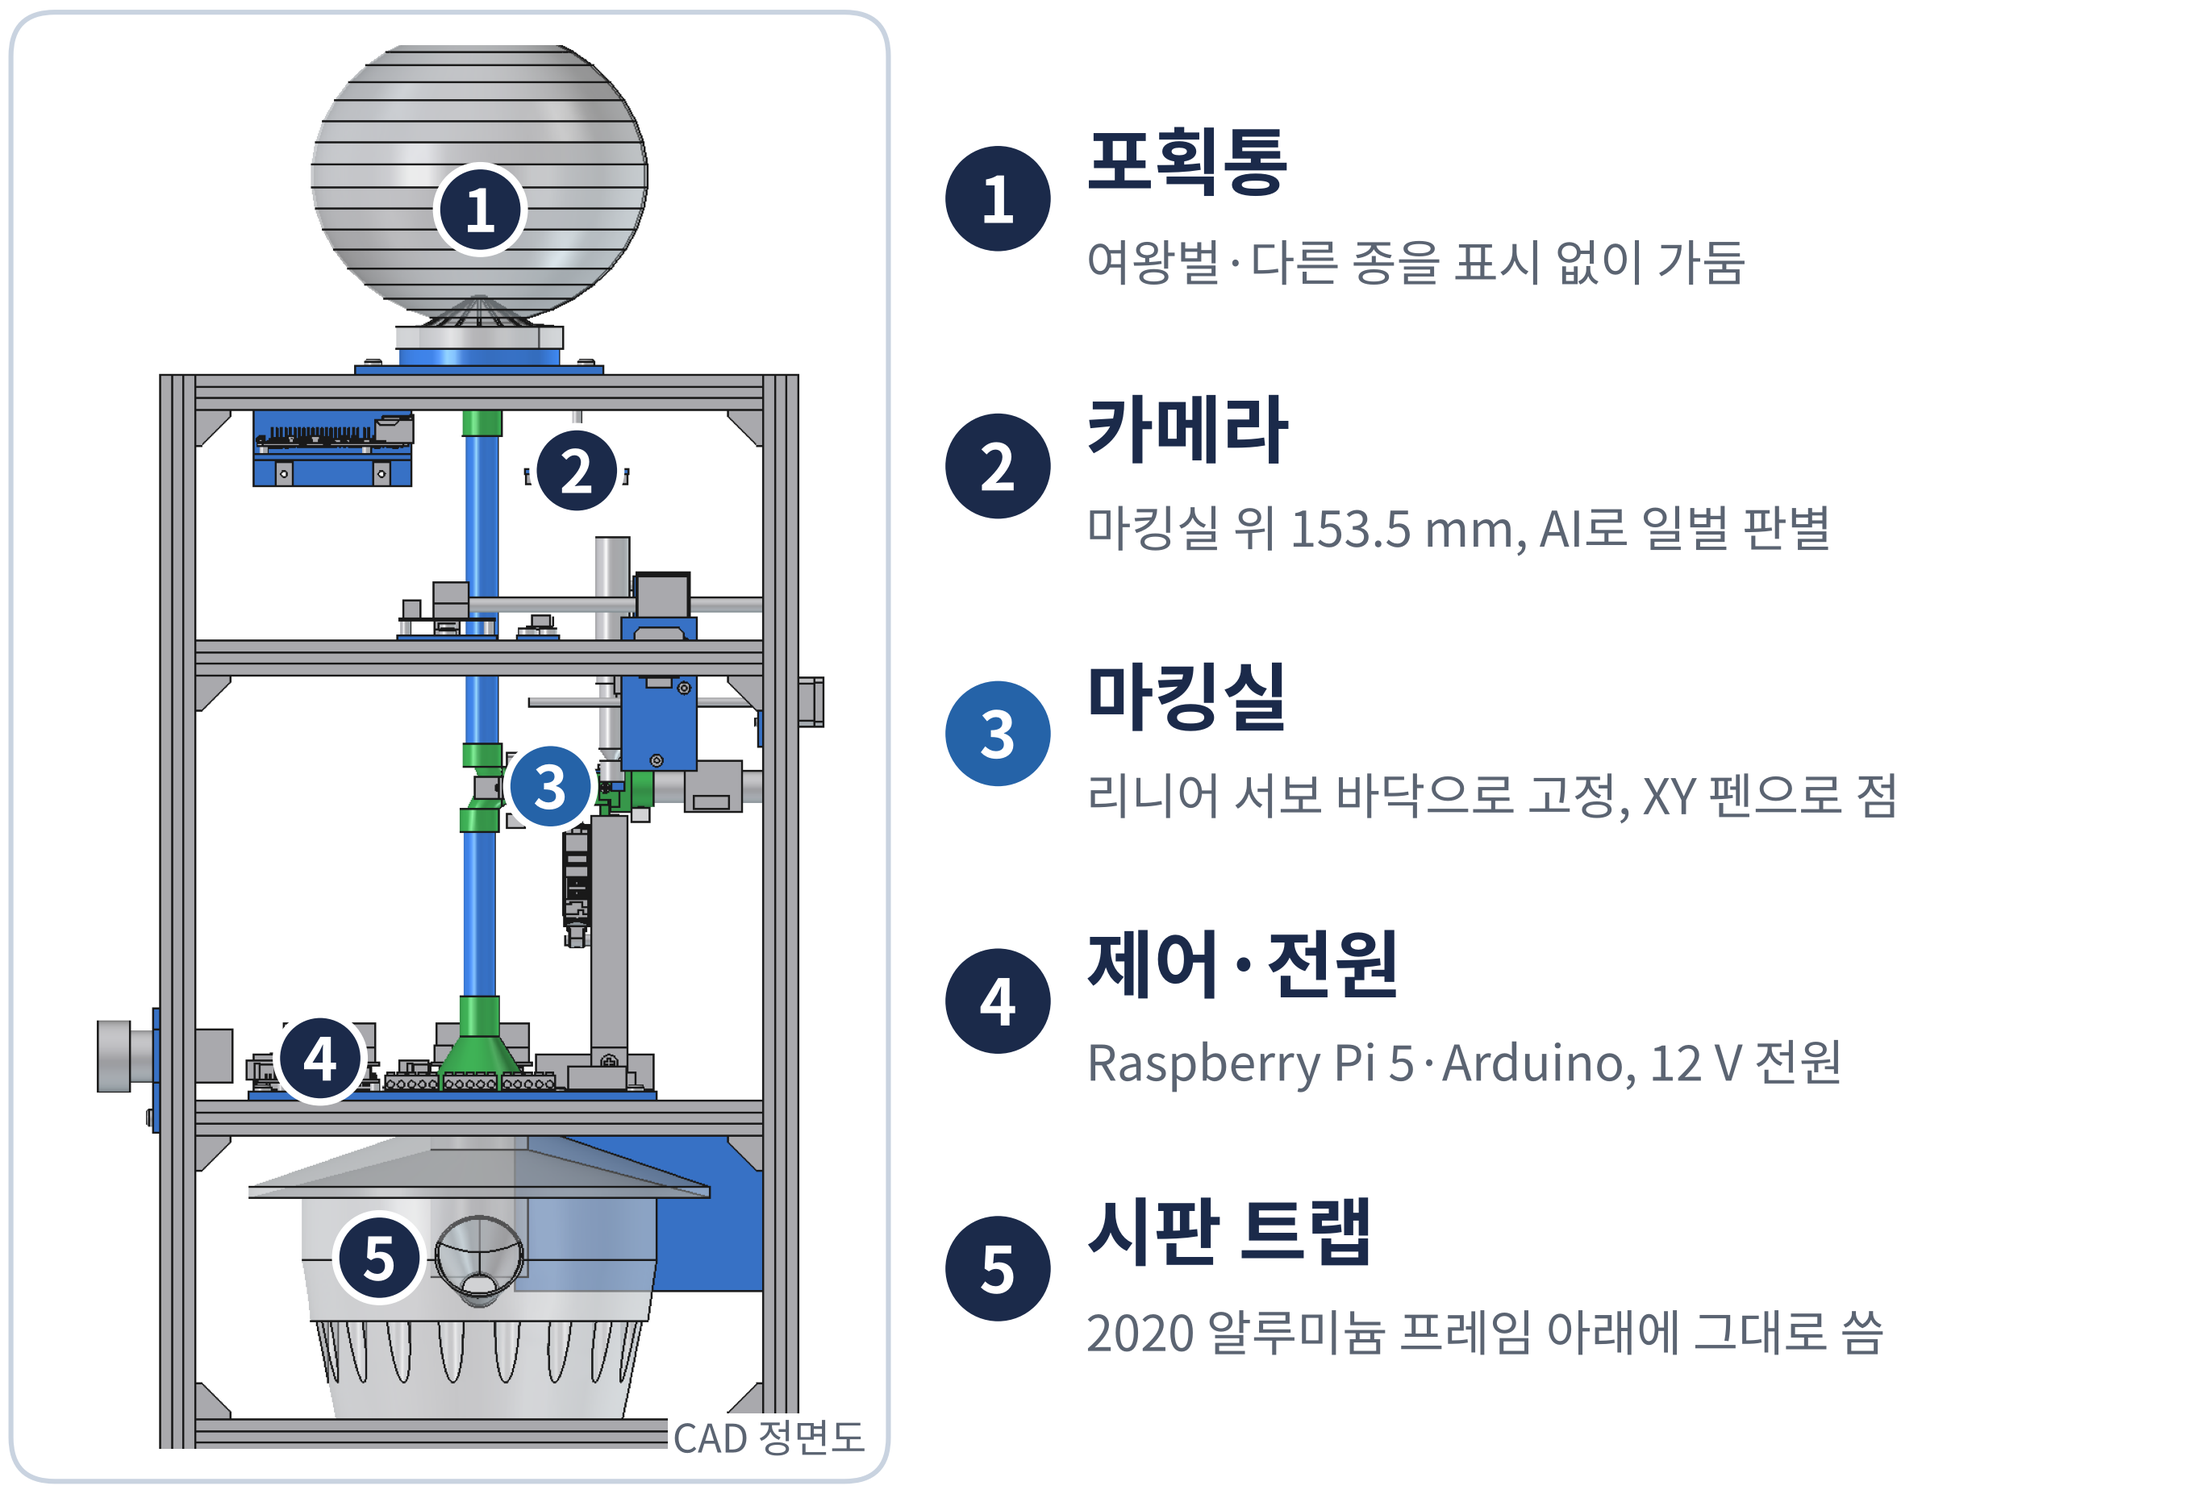
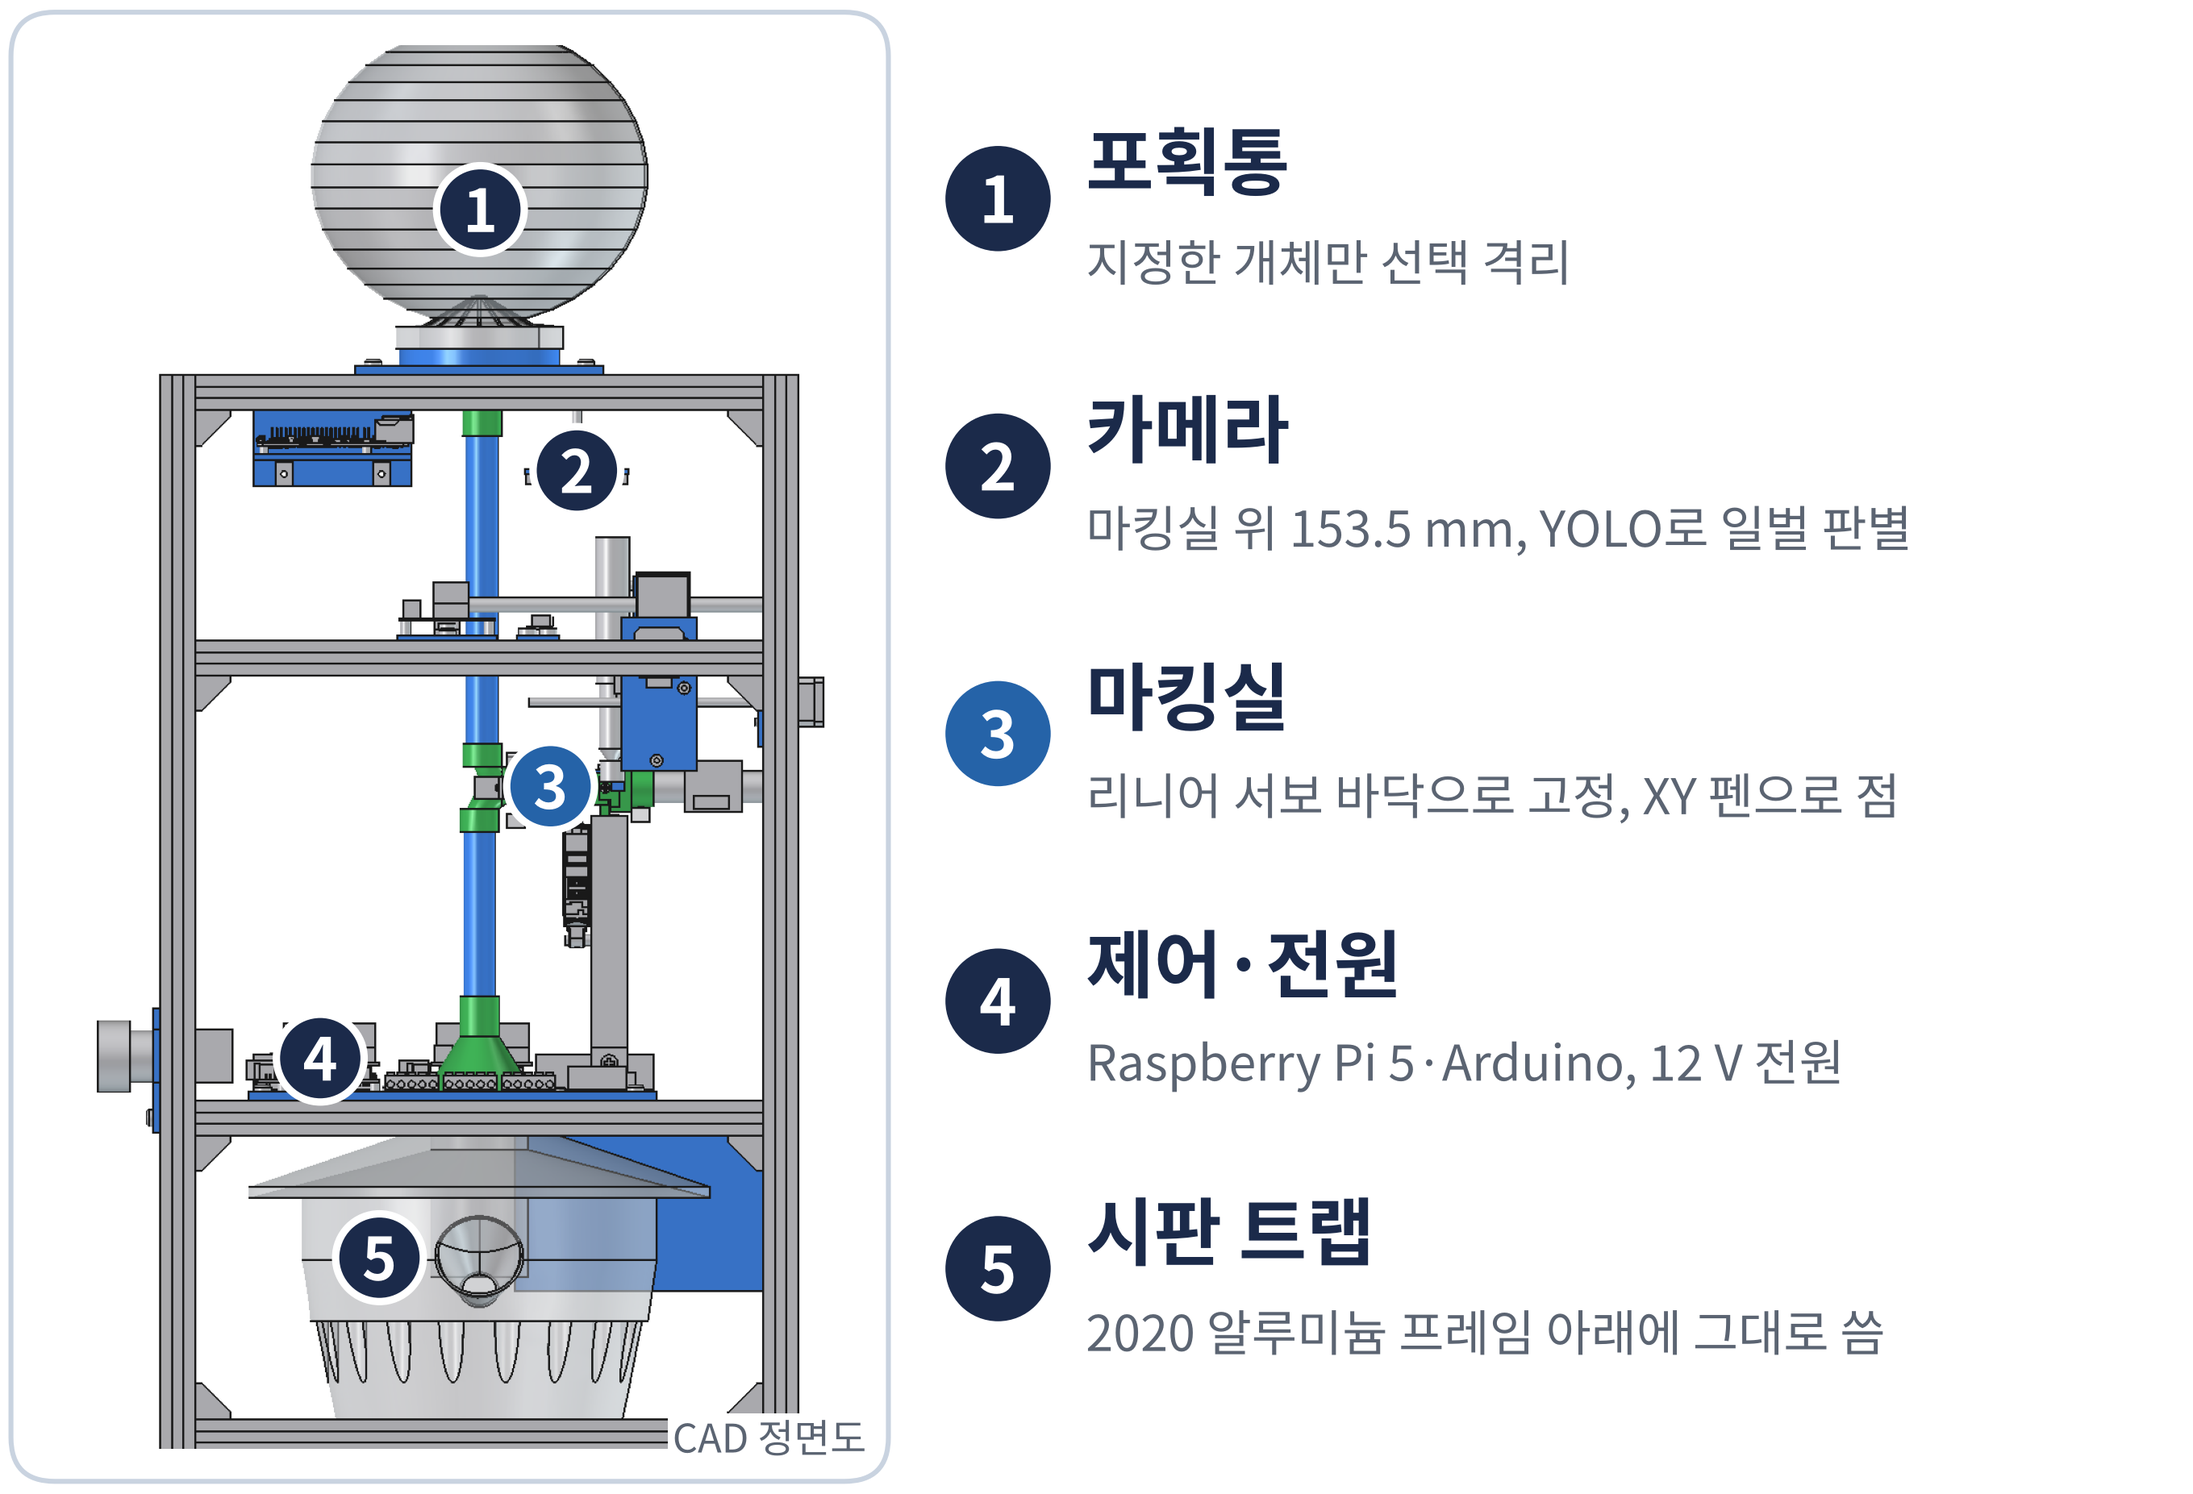
[서현] 앵커 포스터 업데: 새 제목 (YOLO 판별 기반 …), 선택 격리·마킹 색·시제품 한 색·결과 칸 방식 설명, 빈 공간 채움 (CAP-AI-62)
Claude-Session: https://claude.ai/code/session_01RWCzqVuPhrynBXeDi6fBqB

Changed region(s): [[0.4943, 0.1538, 0.8032, 0.1846], [0.6797, 0.3384, 0.865, 0.3691]]

diff --git a/design/poster/content.py b/design/poster/content.py
@@ -1,13 +1,13 @@
 OUT='말벌트랩_포스터_앵커_초안.pptx'
-TITLE='등검은말벌 둥지 추적 마킹 트랩'
+TITLE=['YOLO 판별 기반 등검은말벌','자동 마킹·둥지 거리 추정 트랩']
 TEAM=[('팀      명 ','초벌'),('소      속 ','국립공주대학교 그린바이오 컨소시엄'),('지도교수 ','기계자동차공학부 김성관 교수'),('팀      장 ','기계자동차공학부 기계공학전공 이서현(4학년)'),('팀      원 ','기계자동차공학부 기계공학전공 이승준(3학년)')]
 BODY={
-'직사각형 20':['등검은말벌이 꿀벌을 잡아먹어 양봉 피해 확산','당액 트랩은 효율이 낮아 근본 대책은 둥지 제거','둥지 탐색용 말벌 표시를 사람이 직접 해 위험'],
-'직사각형 21':['말벌 포획부터 표시·내보냄까지 사람 손 없이 자동화','카메라 AI로 등검은말벌 일벌만 골라 표시','여왕벌·다른 종은 표시 없이 격리','다시 잡힌 시각을 기록해 둥지 거리 추정에 활용','시판 트랩에 얹는 모듈로 지자체·방제 기관 보급'],
-'직사각형 35':['영국 VespAI: 카메라 AI로 판별만, 표시는 못 함','여왕벌 마킹 통: 망에 눌러 고정 후 손으로 표시','두 방식을 결합해 판별·고정·표시를 기계가 수행','전문가 자문 후 형광 가루 대신 수성 마커 채택'],
-'직사각형 37':['입구 문과 빛 센서로 한 마리씩 들여보냄','승강 바닥이 말벌을 투명 격자판에 눌러 고정','XY 이송 장치가 펜을 옮겨 격자 구멍으로 점 표시','펜은 약 0.3 N으로 가볍게, 마지막 2 mm는 천천히'],
-'직사각형 42':['역학계산 10문제로 찍는 힘·문 끼임·펜 충격 검토','3D 전체 조립 모델로 움직임·간섭 검사 수행','회로 설계, 제어 프로그램 모의 시험 274개 통과','AI 재학습으로 격자 너머 말벌 917/917 장면 검출','부품 59종 구매, 금속판 10장·아크릴 판 9종 주문'],
-'직사각형 43':['위험한 말벌 표시 작업을 기계가 대신해 쏘임 위험 감소','기록된 왕복 시간으로 둥지까지 거리 범위 추정'],
-'직사각형 44':['실물 조립 후 표본 말벌로 판별·고정·표시 동작 시험','야외 귀소 시험은 방생 허가 필요 → 후속 연구로 제안','표본 시험 결과로 B2G 보급·특허 출원 검토'],
+'직사각형 20':['등검은말벌이 꿀벌을 잡아먹어 양봉 피해 확산','시판 유인 트랩은 일벌만 잡아 근본 대책은 둥지 제거','둥지 탐색용 말벌 표시를 사람이 직접 해 쏘임 위험'],
+'직사각형 21':['말벌 포획부터 표시·내보냄까지 사람 손 없이 자동화','YOLO 모델로 등검은말벌 일벌만 골라 표시','지정한 개체만 선택 격리 (현재 여왕벌·다른 종)','마킹 색으로 잡힌 시각을 대략 파악, 말벌집 거리 추정','시판 트랩에 얹는 모듈로 지자체·방제 기관 보급'],
+'직사각형 35':['영국 VespAI: YOLO로 판별만, 표시는 못 함','여왕벌 마킹 통: 망에 눌러 고정 후 손으로 표시','두 방식을 결합해 판별·고정·표시를 기계가 수행','전문가 자문 후 형광 가루 대신 수성 마커 채택'],
+'직사각형 37':['입구 문과 빛 센서로 한 마리씩 들여보냄','승강 바닥이 말벌을 투명 격자판에 눌러 고정','XY 이송 장치가 펜을 옮겨 격자 구멍으로 점 표시','펜은 약 0.3 N으로 가볍게, 마지막 2 mm는 천천히','시제품은 마커 한 색 (사람이 1시간마다 색 교체)'],
+'직사각형 42':['역학 계산을 통해 찍는 힘·문 끼임·펜 충격 검토','FreeCAD 조립 모델로 펜·바닥 움직이며 겹침 검사','PC 가상 센서·모터로 제어 프로그램 시험 274개 통과','학습 안 쓴 표본 917장면 YOLO 검출 (신뢰도 ≥ 50 %)'],
+'직사각형 43':['말벌 표시 작업을 기계가 대신해 쏘임 위험 감소','마킹 색과 재포획 시각으로 둥지까지 거리 범위 추정','사람 없이 낮 동안 자동 운용해 조사 인력 절감'],
+'직사각형 44':['실물 조립 후 표본 말벌로 판별·고정·표시 동작 시험','여러 색 마커로 색 교체까지 완전 자동화 목표','야외 귀소 시험은 방생 허가 필요 → 후속 연구로 제안','표본 시험 결과로 B2G 보급·특허 출원 검토'],
 }
 PICS={'직사각형 12':'fig_rep.png','직사각형 45':'fig_goal_ai.png','직사각형 46':'fig_idea.png','직사각형 48':'fig_struct.png','직사각형 47':'fig_use.png'}

diff --git a/design/poster/mkposter.py b/design/poster/mkposter.py
@@ -29,7 +29,7 @@ def set_body(name,lines):
 def set_title(name,text):
     global x
     m=sp_of(name); sp=m.group(); ps=paras(sp)
-    new=mkpara(ps[0],text)
+    new=''.join(mkpara(ps[0],t) for t in (text if isinstance(text,list) else [text]))
     body=re.search(r'(<p:txBody>.*?<a:lstStyle/>)(.*)(</p:txBody>)',sp,re.S)
     x=x[:m.start()]+sp[:body.start(2)]+new+sp[body.end(2):]+x[m.end():]
 def set_team(name,rows):
@@ -70,20 +70,26 @@ def fix_head(name, x_cm):
 for n in ['직사각형 22','직사각형 23']: fix_head(n, 8.2)        # marL 없음
 for n in ['직사각형 27','직사각형 41']: fix_head(n, 7.1)        # marL 1.1 cm → 글 시작 8.2
 for n in C.BODY: fix_head(n, 7.1)
+# 제목 두 줄 (11/23 21:38 서현 새 제목) → 팀 정보와 붙지 않게 제목 상자를 2 cm 올림
+mt=sp_of('직사각형 18'); st=re.sub(r'(<a:off x="\d+") y="\d+"',lambda r:f'{r.group(1)} y="{int(5.1*360000)}"',mt.group(),1); x=x[:mt.start()]+st+x[mt.end():]
+def em(t):   # 글 폭 어림 (한글 1, 영문·숫자 0.58, 빈칸 0.3, 가운뎃점 0.45) — shortcut: 실제 맑은 고딕 폭 아님, 꺾임이 어긋나면 렌더로 확인
+    return sum(1.0 if ord(ch)>0x2E80 else 0.3 if ch==' ' else 0.45 if ch in '·,.' else 0.58 for ch in t)
+EM_MAX=25.0; H=[]
 # 세로 배치: 양식 위치 대신 실제 줄 수로 위에서부터 같은 간격으로 쌓음 (줄 간격 고정 pt → PowerPoint·LibreOffice 같음)
 ORDER=[('h','직사각형 22'),('b','직사각형 20'),('b','직사각형 21'),('h','직사각형 23'),('b','직사각형 35'),('b','직사각형 37'),
        ('h','직사각형 27'),('b','직사각형 42'),('h','직사각형 41'),('b','직사각형 43'),('b','직사각형 44')]
-LN={'h':76,'b':58}; GAP={'h':0.2,'b':1.3}; SEC=2.8; y=33.8; prev=None   # pt, cm
+LN={'h':76,'b':58}; GAP={'h':0.2,'b':1.2}; SEC=2.4; y=33.8; prev=None   # pt, cm
 for kind,name in ORDER:
     m=sp_of(name); sp=m.group()
     sp=re.sub(r'<a:lnSpc>.*?</a:lnSpc>',f'<a:lnSpc><a:spcPts val="{LN[kind]*100}"/></a:lnSpc>',sp,flags=re.S)
     sp=re.sub(r'<a:spcBef>.*?</a:spcBef>','<a:spcBef><a:spcPts val="0"/></a:spcBef>',sp,flags=re.S)
     sp=re.sub(r'<a:spcAft>.*?</a:spcAft>','<a:spcAft><a:spcPts val="0"/></a:spcAft>',sp,flags=re.S)
-    n=len(re.findall(r'<a:p>',sp)); h=0.254+n*LN[kind]*2.54/72
+    n=sum(max(1,-(-em(t)//EM_MAX)) for t in [''.join(re.findall(r'<a:t>([^<]*)</a:t>',p)) for p in re.findall(r'<a:p>.*?</a:p>',sp,flags=re.S)]) if kind=='b' else len(re.findall(r'<a:p>',sp))
+    h=0.254+n*LN[kind]*2.54/72; H.append(h)
     if prev: y+=SEC if kind=='h' else GAP[prev]
     sp=re.sub(r'(<a:off x="\d+") y="\d+"/><a:ext cx="(\d+)" cy="\d+"',lambda r:f'{r.group(1)} y="{int(y*360000)}"/><a:ext cx="{r.group(2)}" cy="{int(h*360000)}"',sp,1)
     x=x[:m.start()]+sp+x[m.end():]; y+=h; prev=kind
-print('본문 끝 y =',round(y,1),'cm (로고 131.5 위여야 함)'); assert y<130.5
+print('본문 끝 y =',round(y,1),'cm (로고 131.5 위여야 함)'); assert y<131.0
 for i,(k,v) in enumerate(C.PICS.items()): add_pic(k,v,f'rId{50+i}')
 x=re.sub(r'<a:rPr(?![^>]*noProof)',r'<a:rPr noProof="1"',x)
 open(S,'w',encoding='utf-8').write(x); open(RL,'w',encoding='utf-8').write(rels)

diff --git a/design/poster/figs2.py b/design/poster/figs2.py
@@ -195,8 +195,8 @@ card(a, 0.5, 0.5, 40, 67, fc='white', ec=LINE, r=2.0)
 fr = Image.open('/home/claude/repo/cad/img/D5g_도2_정면.png').convert('RGB').crop((835, 240, 1565, 1640))
 put(a, fr, 2, 2, 38, 64)   # → 그림 x 4.3~37.7, y 2~66
 a.text(39.5, 1.6, 'CAD 정면도', ha='right', va='bottom', fontsize=16, color=GRAY, zorder=7, bbox=dict(fc='white', ec='none', pad=2))
-pts = [((21.9, 58.5), '포획통', '여왕벌·다른 종을 표시 없이 가둠'),
-       ((26.3, 46.6), '카메라', '마킹실 위 153.5 mm, AI로 일벌 판별'),
+pts = [((21.9, 58.5), '포획통', '지정한 개체만 선택 격리'),
+       ((26.3, 46.6), '카메라', '마킹실 위 153.5 mm, YOLO로 일벌 판별'),
        ((25.1, 32.2), '마킹실', '리니어 서보 바닥으로 고정, XY 펜으로 점'),
        ((14.6, 19.8), '제어·전원', 'Raspberry Pi 5·Arduino, 12 V 전원'),
        ((17.3, 10.7), '시판 트랩', '2020 알루미늄 프레임 아래에 그대로 씀')]
@@ -265,8 +265,8 @@ f.savefig('fig_ai.png'); plt.close(f)
 # ══ 그림 (오른쪽 4번) B2G 활용 — 자세히 (11/23 밤 서현 "현재 것에서 자세하게"). 근거: 당위성 워드 (Rojas-Nossa 2022 공식, 11-3 색 교체, 조사·방제 모드)
 f, a = canvas()
 a.text(1, 64.5, '활용 — 지자체·방제 기관용 둥지 조사 장비 (B2G)', fontsize=26, color=NAVY, weight='bold', va='center')
-flow = [('트랩 설치', '양봉장 주변 여러 곳\n시판 트랩 위에 장착'), ('자동 표시', '일벌만 점 찍고 내보냄\n1시간마다 마커 색 교체'),
-        ('시각 수집', '다시 잡히면 시각 기록\n→ 왕복 시간 계산'), ('둥지 제거', '거리 범위 안 수색\n허가 기관이 제거')]
+flow = [('트랩 설치', '양봉장 주변 여러 곳\n시판 트랩 위에 장착'), ('자동 표시', '일벌만 점 찍고 내보냄\n시제품: 1시간마다 색 교체'),
+        ('시각 수집', '점 색·재포획 시각으로\n왕복 시간 계산'), ('둥지 제거', '거리 범위 안 수색\n허가 기관이 제거')]
 for i, (t, sub) in enumerate(flow):
     x = 1 + i * 25; hl = i == 3
     card(a, x, 33, 22.5, 26, fc=NAVY if hl else LIGHT, ec='none', r=1.6)
@@ -310,7 +310,7 @@ f.savefig('fig_ai.png'); plt.close(f)
 # ══ 오른쪽 그림 1 (11/23 21:27 서현 "대표사진과 fig1 합치기"): 작동 5단계 + ② 판별 사진 2장
 U = '/mnt/user-data/uploads/capstone design/'
 f, a = canvas()
-steps = [('들어옴', '빛 센서·입구 문'), ('판별', '카메라 AI'), ('고정', '바닥 올림'), ('표시', 'XY 펜으로 점'), ('내보냄', '방생 문·시각 기록')]
+steps = [('들어옴', '빛 센서·입구 문'), ('판별', 'YOLO 모델'), ('고정', '바닥 올림'), ('표시', 'XY 펜으로 점'), ('내보냄', '방생 문·시각 기록')]
 cx = [10, 30, 50, 70, 90]
 for i, (t, sub) in enumerate(steps):
     c = AMBER if i == 1 else (BLUE if i in (2, 3) else NAVY)

diff --git a/ai-log/AI_명령사항_로그.md b/ai-log/AI_명령사항_로그.md
@@ -1509,3 +1509,10 @@
 - (11/23 21:35) 서현 "지금은 시제품이라 한 색, 여러 색을 쓰게 해 완전 자동화가 목표라고 말하자" → 대기 목록 5번
 - (11/23 21:36) 서현 "'역학계산 10문제' 언급 말고 '역학 계산을 통해', 검사·시험·장면 검출을 어떻게 했는지 적고, 부품 주문 문장 빼" → 대기 목록 6번 (방식 근거: run_full.py · sim · pi_link · 말벌AI_시험.ipynb)
 - (11/23 21:38) 서현 "제목도 무엇으로 어떻게 어떤 결과인지 알려 주는 제목, 서술형 말고" → 'YOLO 판별 기반 등검은말벌 자동 마킹·둥지 거리 추정 트랩' 선택 → 대기 목록 7번 (신청서 작품명도)
+- **(11/23 21:38~21:46) 서현 "업데하자, 포스터 꽉꽉 채우고":** 대기 목록 1~7을 앵커 포스터에 한 번에 반영
+  - 제목 두 줄 "YOLO 판별 기반 등검은말벌 / 자동 마킹·둥지 거리 추정 트랩" (제목 상자 2 cm 올림, 팀 정보와 안 붙음)
+  - 본문: 시판 유인 트랩 · YOLO 모델 · 지정한 개체만 선택 격리 (현재 여왕벌·다른 종) · 마킹 색으로 잡힌 시각 대략 파악 · 설계 '시제품은 마커 한 색 (사람이 1시간마다 색 교체)' · 결과 칸 방식 (역학 계산을 통해 / FreeCAD 조립 모델로 펜·바닥 움직이며 겹침 검사 / PC 가상 센서·모터로 제어 프로그램 시험 274개 / 학습 안 쓴 표본 917장면 YOLO 검출 신뢰도 ≥ 50 %), 부품 주문 줄 뺌 · 기대효과 '사람 없이 낮 동안 자동 운용해 조사 인력 절감' (판넬 4.2 근거) · 향후 '여러 색 마커로 색 교체까지 완전 자동화 목표'
+  - 그림: 그림 1 판별 'YOLO 모델', 그림 3 포획통 '지정한 개체만 선택 격리'·카메라 'YOLO로 일벌 판별', 그림 4 ② '시제품: 1시간마다 색 교체'·③ '점 색·재포획 시각으로 왕복 시간 계산'
+  - 배치: 한 줄 폭 어림 (em, 25자) 넘는 줄은 꺾인 줄로 셈 → 넘는 6줄은 줄여 한 줄로. 빈 공간 채움: 칸 사이 2.4 · 글 사이 1.2 cm, 본문 끝 130.5 cm (로고 131.5)
+  - 바탕화면 포스터 덮음, md5 같음 확인 (fc26dc88)
+  - 참가신청서 작품명 K15 (바탕화면 두 파일 모두, 공유 문자열만 바꿈 — 다른 칸 그대로): 새 제목. **두 파일 내용이 다름**: `_초안.xlsx` = 전시 O·구조물 (실물 장치)·동의 2칸·'그린 바이오' (서현 16:13 화면과 같음), 본 파일 = 전시 X·O15 'EHD' (한/영 키 안 바뀐 '동의')·O16 비어 있음 → 어느 파일을 낼지·전시 O/X 서현 확인 필요
